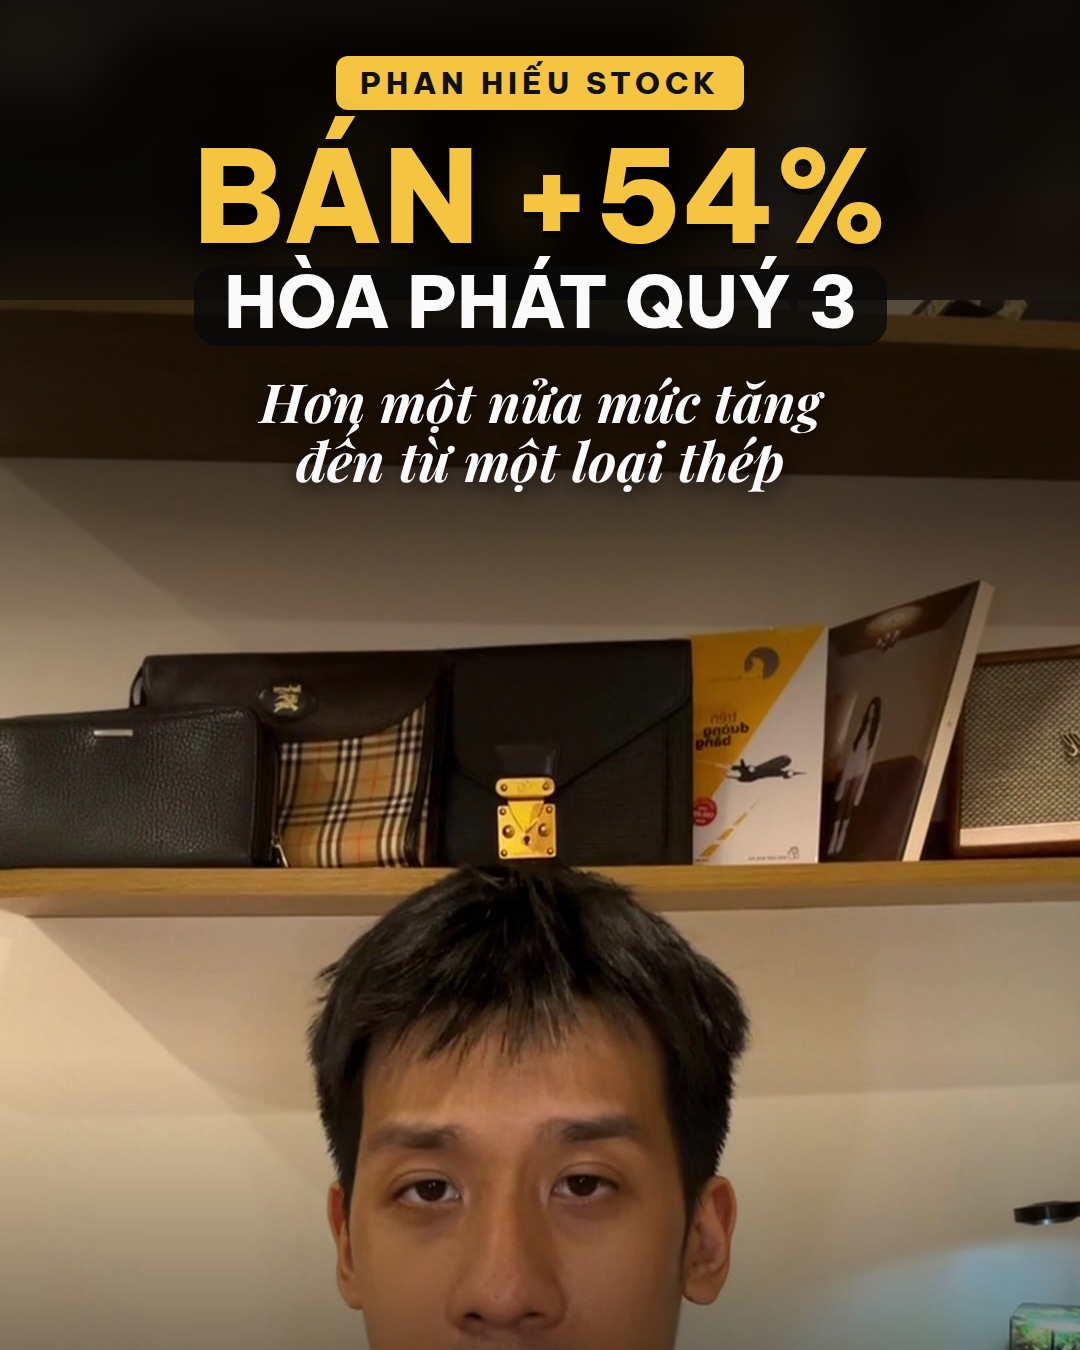
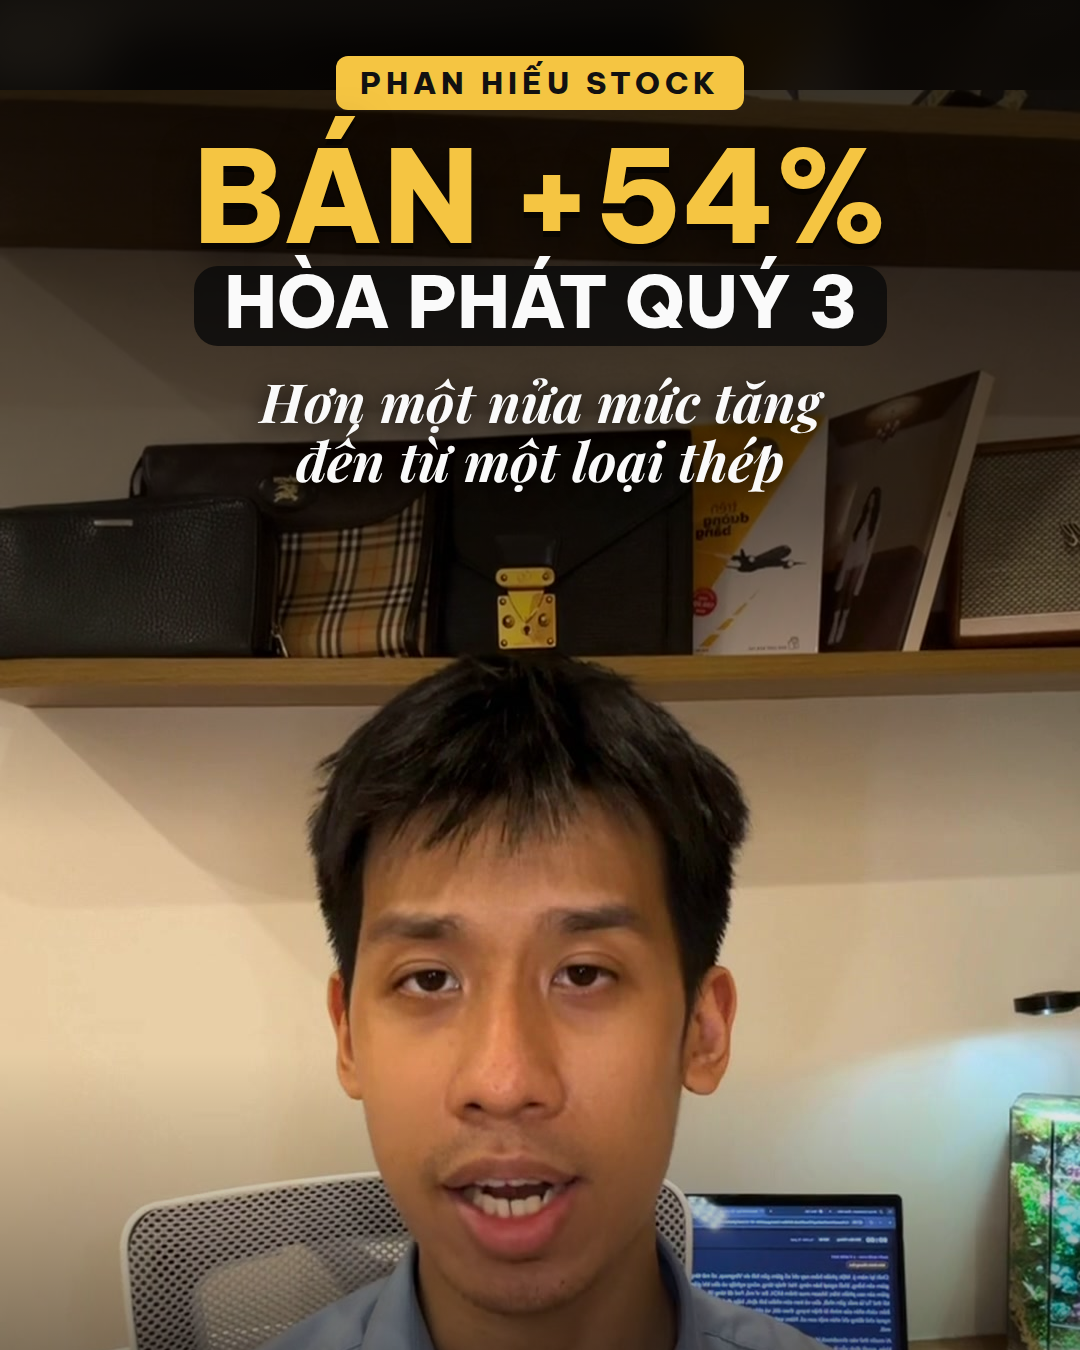
Sửa ảnh bìa 12/10: bản Facebook không còn cắt mất cằm và miệng, thu gọn chữ; bản TikTok maicolen nâng ảnh để cằm nằm trong khung lưới 3:4
Claude-Session: https://claude.ai/code/session_014GxSeC1NwqDQnvs7PVNM85

diff --git a/videos/covers/cover_maicolen_facebook_1080x1350.html b/videos/covers/cover_maicolen_facebook_1080x1350.html
@@ -1,13 +1,13 @@
 <!doctype html><html><head><meta charset="utf-8"><style>@font-face{font-family:'Be Vietnam Pro';src:url('fonts/be-vietnam-pro-latin-800-normal.woff2') format('woff2');font-weight:800;font-style:normal;unicode-range:U+0000-00FF,U+0131,U+0152-0153,U+2000-206F,U+20AC,U+2212}@font-face{font-family:'Be Vietnam Pro';src:url('fonts/be-vietnam-pro-latin-ext-800-normal.woff2') format('woff2');font-weight:800;font-style:normal;unicode-range:U+0100-02BA,U+1E00-1EFF}@font-face{font-family:'Be Vietnam Pro';src:url('fonts/be-vietnam-pro-vietnamese-800-normal.woff2') format('woff2');font-weight:800;font-style:normal;unicode-range:U+0102-0103,U+0110-0111,U+0128-0129,U+0168-0169,U+01A0-01A1,U+01AF-01B0,U+0300-0301,U+0303-0304,U+0309,U+0323,U+1EA0-1EF9,U+20AB}@font-face{font-family:'Be Vietnam Pro';src:url('fonts/be-vietnam-pro-latin-700-normal.woff2') format('woff2');font-weight:700;font-style:normal;unicode-range:U+0000-00FF,U+0131,U+0152-0153,U+2000-206F,U+20AC,U+2212}@font-face{font-family:'Be Vietnam Pro';src:url('fonts/be-vietnam-pro-latin-ext-700-normal.woff2') format('woff2');font-weight:700;font-style:normal;unicode-range:U+0100-02BA,U+1E00-1EFF}@font-face{font-family:'Be Vietnam Pro';src:url('fonts/be-vietnam-pro-vietnamese-700-normal.woff2') format('woff2');font-weight:700;font-style:normal;unicode-range:U+0102-0103,U+0110-0111,U+0128-0129,U+0168-0169,U+01A0-01A1,U+01AF-01B0,U+0300-0301,U+0303-0304,U+0309,U+0323,U+1EA0-1EF9,U+20AB}@font-face{font-family:'Playfair Display';src:url('fonts/playfair-display-latin-700-italic.woff2') format('woff2');font-weight:700;font-style:italic;unicode-range:U+0000-00FF,U+0131,U+0152-0153,U+2000-206F,U+20AC,U+2212}@font-face{font-family:'Playfair Display';src:url('fonts/playfair-display-latin-ext-700-italic.woff2') format('woff2');font-weight:700;font-style:italic;unicode-range:U+0100-02BA,U+1E00-1EFF}@font-face{font-family:'Playfair Display';src:url('fonts/playfair-display-vietnamese-700-italic.woff2') format('woff2');font-weight:700;font-style:italic;unicode-range:U+0102-0103,U+0110-0111,U+0128-0129,U+0168-0169,U+01A0-01A1,U+01AF-01B0,U+0300-0301,U+0303-0304,U+0309,U+0323,U+1EA0-1EF9,U+20AB}
 *{box-sizing:border-box;margin:0}html,body{width:1080px;height:1350px;overflow:hidden;background:#000}
 .bg{position:absolute;inset:-40px;background:url('img/mai-co-len.jpg') center/cover;filter:blur(28px) brightness(.55)}
-.ph{position:absolute;left:0;top:330px;width:1080px;height:1920px;background:url('img/mai-co-len.jpg') center/cover}
+.ph{position:absolute;left:0;top:70px;width:1080px;height:1920px;background:url('img/mai-co-len.jpg') center/cover}
 .sh{position:absolute;inset:0;background:linear-gradient(to bottom,rgba(0,0,0,.82) 0%,rgba(0,0,0,.55) 38%,rgba(0,0,0,0) 62%),linear-gradient(to top,rgba(0,0,0,.45),rgba(0,0,0,0) 22%)}
 .t{position:absolute;left:60px;width:960px;top:56px;text-align:center;font-family:'Be Vietnam Pro';font-weight:800;line-height:1}
 .tag{display:inline-block;font:800 30px 'Be Vietnam Pro';letter-spacing:5px;color:#111;background:#F5C542;padding:8px 24px;border-radius:12px;margin-bottom:22px}
 .tag2{font:700 28px 'Be Vietnam Pro';letter-spacing:4px;color:#FAFAFA;margin:-8px 0 18px;text-shadow:0 3px 14px rgba(0,0,0,.8)}
-.l1{font-size:98px;color:#F5C542;text-shadow:0 6px 0 rgba(0,0,0,.5),0 16px 40px rgba(0,0,0,.6)}
-.l2{display:inline-block;font-size:72px;color:#FAFAFA;background:rgba(10,10,10,.82);padding:0 30px 8px;border-radius:24px;margin-top:6px}
-.l3{margin-top:26px;font:italic 700 54px 'Playfair Display';color:#FAFAFA;text-shadow:0 4px 22px rgba(0,0,0,.8);line-height:1.1}
+.l1{font-size:92px;color:#F5C542;text-shadow:0 6px 0 rgba(0,0,0,.5),0 16px 40px rgba(0,0,0,.6)}
+.l2{display:inline-block;font-size:66px;color:#FAFAFA;background:rgba(10,10,10,.82);padding:0 30px 8px;border-radius:24px;margin-top:6px}
+.l3{margin-top:26px;font:italic 700 40px 'Playfair Display';color:#FAFAFA;text-shadow:0 4px 22px rgba(0,0,0,.8);line-height:1.1}
 </style></head><body><div class="bg"></div><div class="ph"></div><div class="sh"></div>
-<div class="t"><div class="tag">PHAN HIẾU STOCK</div><div class="tag2">LỘT TRẦN NGHỀ MÔI GIỚI</div><div class="l1">MAI MÃ NÀO<br>SẼ LÊN?</div><div class="l2">KHÔNG AI BIẾT</div><div class="l3">Môi giới trả lời được mọi câu,<br>trừ câu này</div></div></body></html>
+<div class="t"><div class="tag">PHAN HIẾU STOCK</div><div class="tag2">LỘT TRẦN NGHỀ MÔI GIỚI</div><div class="l1">MAI MÃ NÀO<br>SẼ LÊN?</div><div class="l2">KHÔNG AI BIẾT</div><div class="l3">Môi giới trả lời được mọi câu, trừ câu này</div></div></body></html>

diff --git a/videos/covers/cover_hpg_facebook_1080x1350.html b/videos/covers/cover_hpg_facebook_1080x1350.html
@@ -1,7 +1,7 @@
 <!doctype html><html><head><meta charset="utf-8"><style>@font-face{font-family:'Be Vietnam Pro';src:url('fonts/be-vietnam-pro-latin-800-normal.woff2') format('woff2');font-weight:800;font-style:normal;unicode-range:U+0000-00FF,U+0131,U+0152-0153,U+2000-206F,U+20AC,U+2212}@font-face{font-family:'Be Vietnam Pro';src:url('fonts/be-vietnam-pro-latin-ext-800-normal.woff2') format('woff2');font-weight:800;font-style:normal;unicode-range:U+0100-02BA,U+1E00-1EFF}@font-face{font-family:'Be Vietnam Pro';src:url('fonts/be-vietnam-pro-vietnamese-800-normal.woff2') format('woff2');font-weight:800;font-style:normal;unicode-range:U+0102-0103,U+0110-0111,U+0128-0129,U+0168-0169,U+01A0-01A1,U+01AF-01B0,U+0300-0301,U+0303-0304,U+0309,U+0323,U+1EA0-1EF9,U+20AB}@font-face{font-family:'Be Vietnam Pro';src:url('fonts/be-vietnam-pro-latin-700-normal.woff2') format('woff2');font-weight:700;font-style:normal;unicode-range:U+0000-00FF,U+0131,U+0152-0153,U+2000-206F,U+20AC,U+2212}@font-face{font-family:'Be Vietnam Pro';src:url('fonts/be-vietnam-pro-latin-ext-700-normal.woff2') format('woff2');font-weight:700;font-style:normal;unicode-range:U+0100-02BA,U+1E00-1EFF}@font-face{font-family:'Be Vietnam Pro';src:url('fonts/be-vietnam-pro-vietnamese-700-normal.woff2') format('woff2');font-weight:700;font-style:normal;unicode-range:U+0102-0103,U+0110-0111,U+0128-0129,U+0168-0169,U+01A0-01A1,U+01AF-01B0,U+0300-0301,U+0303-0304,U+0309,U+0323,U+1EA0-1EF9,U+20AB}@font-face{font-family:'Playfair Display';src:url('fonts/playfair-display-latin-700-italic.woff2') format('woff2');font-weight:700;font-style:italic;unicode-range:U+0000-00FF,U+0131,U+0152-0153,U+2000-206F,U+20AC,U+2212}@font-face{font-family:'Playfair Display';src:url('fonts/playfair-display-latin-ext-700-italic.woff2') format('woff2');font-weight:700;font-style:italic;unicode-range:U+0100-02BA,U+1E00-1EFF}@font-face{font-family:'Playfair Display';src:url('fonts/playfair-display-vietnamese-700-italic.woff2') format('woff2');font-weight:700;font-style:italic;unicode-range:U+0102-0103,U+0110-0111,U+0128-0129,U+0168-0169,U+01A0-01A1,U+01AF-01B0,U+0300-0301,U+0303-0304,U+0309,U+0323,U+1EA0-1EF9,U+20AB}
 *{box-sizing:border-box;margin:0}html,body{width:1080px;height:1350px;overflow:hidden;background:#000}
 .bg{position:absolute;inset:-40px;background:url('img/hpg-san-luong.jpg') center/cover;filter:blur(28px) brightness(.55)}
-.ph{position:absolute;left:0;top:300px;width:1080px;height:1920px;background:url('img/hpg-san-luong.jpg') center/cover}
+.ph{position:absolute;left:0;top:90px;width:1080px;height:1920px;background:url('img/hpg-san-luong.jpg') center/cover}
 .sh{position:absolute;inset:0;background:linear-gradient(to bottom,rgba(0,0,0,.82) 0%,rgba(0,0,0,.55) 38%,rgba(0,0,0,0) 62%),linear-gradient(to top,rgba(0,0,0,.45),rgba(0,0,0,0) 22%)}
 .t{position:absolute;left:60px;width:960px;top:56px;text-align:center;font-family:'Be Vietnam Pro';font-weight:800;line-height:1}
 .tag{display:inline-block;font:800 30px 'Be Vietnam Pro';letter-spacing:5px;color:#111;background:#F5C542;padding:8px 24px;border-radius:12px;margin-bottom:22px}

diff --git a/videos/covers/cover_maicolen_tiktok_1080x1920.html b/videos/covers/cover_maicolen_tiktok_1080x1920.html
@@ -1,7 +1,7 @@
 <!doctype html><html><head><meta charset="utf-8"><style>@font-face{font-family:'Be Vietnam Pro';src:url('fonts/be-vietnam-pro-latin-800-normal.woff2') format('woff2');font-weight:800;font-style:normal;unicode-range:U+0000-00FF,U+0131,U+0152-0153,U+2000-206F,U+20AC,U+2212}@font-face{font-family:'Be Vietnam Pro';src:url('fonts/be-vietnam-pro-latin-ext-800-normal.woff2') format('woff2');font-weight:800;font-style:normal;unicode-range:U+0100-02BA,U+1E00-1EFF}@font-face{font-family:'Be Vietnam Pro';src:url('fonts/be-vietnam-pro-vietnamese-800-normal.woff2') format('woff2');font-weight:800;font-style:normal;unicode-range:U+0102-0103,U+0110-0111,U+0128-0129,U+0168-0169,U+01A0-01A1,U+01AF-01B0,U+0300-0301,U+0303-0304,U+0309,U+0323,U+1EA0-1EF9,U+20AB}@font-face{font-family:'Be Vietnam Pro';src:url('fonts/be-vietnam-pro-latin-700-normal.woff2') format('woff2');font-weight:700;font-style:normal;unicode-range:U+0000-00FF,U+0131,U+0152-0153,U+2000-206F,U+20AC,U+2212}@font-face{font-family:'Be Vietnam Pro';src:url('fonts/be-vietnam-pro-latin-ext-700-normal.woff2') format('woff2');font-weight:700;font-style:normal;unicode-range:U+0100-02BA,U+1E00-1EFF}@font-face{font-family:'Be Vietnam Pro';src:url('fonts/be-vietnam-pro-vietnamese-700-normal.woff2') format('woff2');font-weight:700;font-style:normal;unicode-range:U+0102-0103,U+0110-0111,U+0128-0129,U+0168-0169,U+01A0-01A1,U+01AF-01B0,U+0300-0301,U+0303-0304,U+0309,U+0323,U+1EA0-1EF9,U+20AB}@font-face{font-family:'Playfair Display';src:url('fonts/playfair-display-latin-700-italic.woff2') format('woff2');font-weight:700;font-style:italic;unicode-range:U+0000-00FF,U+0131,U+0152-0153,U+2000-206F,U+20AC,U+2212}@font-face{font-family:'Playfair Display';src:url('fonts/playfair-display-latin-ext-700-italic.woff2') format('woff2');font-weight:700;font-style:italic;unicode-range:U+0100-02BA,U+1E00-1EFF}@font-face{font-family:'Playfair Display';src:url('fonts/playfair-display-vietnamese-700-italic.woff2') format('woff2');font-weight:700;font-style:italic;unicode-range:U+0102-0103,U+0110-0111,U+0128-0129,U+0168-0169,U+01A0-01A1,U+01AF-01B0,U+0300-0301,U+0303-0304,U+0309,U+0323,U+1EA0-1EF9,U+20AB}
 *{box-sizing:border-box;margin:0}html,body{width:1080px;height:1920px;overflow:hidden;background:#000}
 .bg{position:absolute;inset:-40px;background:url('img/mai-co-len.jpg') center/cover;filter:blur(28px) brightness(.55)}
-.ph{position:absolute;left:0;top:430px;width:1080px;height:1920px;background:url('img/mai-co-len.jpg') center/cover}
+.ph{position:absolute;left:0;top:390px;width:1080px;height:1920px;background:url('img/mai-co-len.jpg') center/cover}
 .sh{position:absolute;inset:0;background:linear-gradient(to bottom,rgba(0,0,0,.82) 0%,rgba(0,0,0,.55) 38%,rgba(0,0,0,0) 62%),linear-gradient(to top,rgba(0,0,0,.45),rgba(0,0,0,0) 22%)}
 .t{position:absolute;left:60px;width:960px;top:190px;text-align:center;font-family:'Be Vietnam Pro';font-weight:800;line-height:1}
 .tag{display:inline-block;font:800 30px 'Be Vietnam Pro';letter-spacing:5px;color:#111;background:#F5C542;padding:8px 24px;border-radius:12px;margin-bottom:22px}

diff --git a/videos/covers/make_covers.py b/videos/covers/make_covers.py
@@ -19,11 +19,11 @@ COVERS = {
     "msn": dict(photo="img/msn.jpg", l1="MSN", c1="#F5C542", l2="TRÊN 110.000đ", c2="#22C55E", l3="2 tổ chức bất đồng ở đâu?"),
     # video 12/10: đầu người nói nằm cao hơn các video trước nên đẩy ảnh xuống (dy) để chữ không đè mặt; s1 = cỡ chữ dòng 1 riêng từng khung
     "maicolen": dict(photo="img/mai-co-len.jpg", tag2="LỘT TRẦN NGHỀ MÔI GIỚI", l1="MAI MÃ NÀO<br>SẼ LÊN?", c1="#F5C542", l2="KHÔNG AI BIẾT", c2="#FAFAFA",
-                     l3="Môi giới trả lời được mọi câu,<br>trừ câu này",
-                     dy={"tiktok_1080x1920": 430, "facebook_1080x1350": 330}, s1={"tiktok_1080x1920": 118, "facebook_1080x1350": 98}),
+                     dy={"tiktok_1080x1920": 390, "facebook_1080x1350": 70}, s1={"tiktok_1080x1920": 118, "facebook_1080x1350": 92},
+                     s2={"facebook_1080x1350": 66}, s3={"facebook_1080x1350": 40}, l3={"tiktok_1080x1920": "Môi giới trả lời được mọi câu,<br>trừ câu này", "facebook_1080x1350": "Môi giới trả lời được mọi câu, trừ câu này"}),
     "hpg": dict(photo="img/hpg-san-luong.jpg", l1="BÁN +54%", c1="#F5C542", l2="HÒA PHÁT QUÝ 3", c2="#FAFAFA",
                 l3="Hơn một nửa mức tăng<br>đến từ một loại thép",
-                dy={"tiktok_1080x1920": 400, "facebook_1080x1350": 300}, s1={"tiktok_1080x1920": 146, "facebook_1080x1350": 128}),
+                dy={"tiktok_1080x1920": 400, "facebook_1080x1350": 90}, s1={"tiktok_1080x1920": 146, "facebook_1080x1350": 128}),
 }
 # (rộng, cao, offset y của ảnh, cỡ chữ l1, l2, l3, top của khối chữ)
 SIZES = {
@@ -32,7 +32,8 @@ SIZES = {
 }
 for key, c in COVERS.items():
     for name, (w, h, dy, s1, s2, s3, top) in SIZES.items():
-        dy, s1 = c.get("dy", {}).get(name, dy), c.get("s1", {}).get(name, s1)
+        dy, s1, s2, s3 = (c.get(k, {}).get(name, v) for k, v in (("dy", dy), ("s1", s1), ("s2", s2), ("s3", s3)))
+        l3 = c["l3"][name] if isinstance(c["l3"], dict) else c["l3"]
         tag2 = f'<div class="tag2">{c["tag2"]}</div>' if c.get("tag2") else ""
         html = f"""<!doctype html><html><head><meta charset="utf-8"><style>{FONTS}
 *{{box-sizing:border-box;margin:0}}html,body{{width:{w}px;height:{h}px;overflow:hidden;background:#000}}
@@ -46,6 +47,6 @@ for key, c in COVERS.items():
 .l2{{display:inline-block;font-size:{s2}px;color:{c['c2']};background:rgba(10,10,10,.82);padding:0 30px 8px;border-radius:24px;margin-top:6px}}
 .l3{{margin-top:26px;font:italic 700 {s3}px 'Playfair Display';color:#FAFAFA;text-shadow:0 4px 22px rgba(0,0,0,.8);line-height:1.1}}
 </style></head><body><div class="bg"></div><div class="ph"></div><div class="sh"></div>
-<div class="t"><div class="tag">PHAN HIẾU STOCK</div>{tag2}<div class="l1">{c['l1']}</div><div class="l2">{c['l2']}</div><div class="l3">{c['l3']}</div></div></body></html>"""
+<div class="t"><div class="tag">PHAN HIẾU STOCK</div>{tag2}<div class="l1">{c['l1']}</div><div class="l2">{c['l2']}</div><div class="l3">{l3}</div></div></body></html>"""
         (R / f"cover_{key}_{name}.html").write_text(html)
 print("ok")
